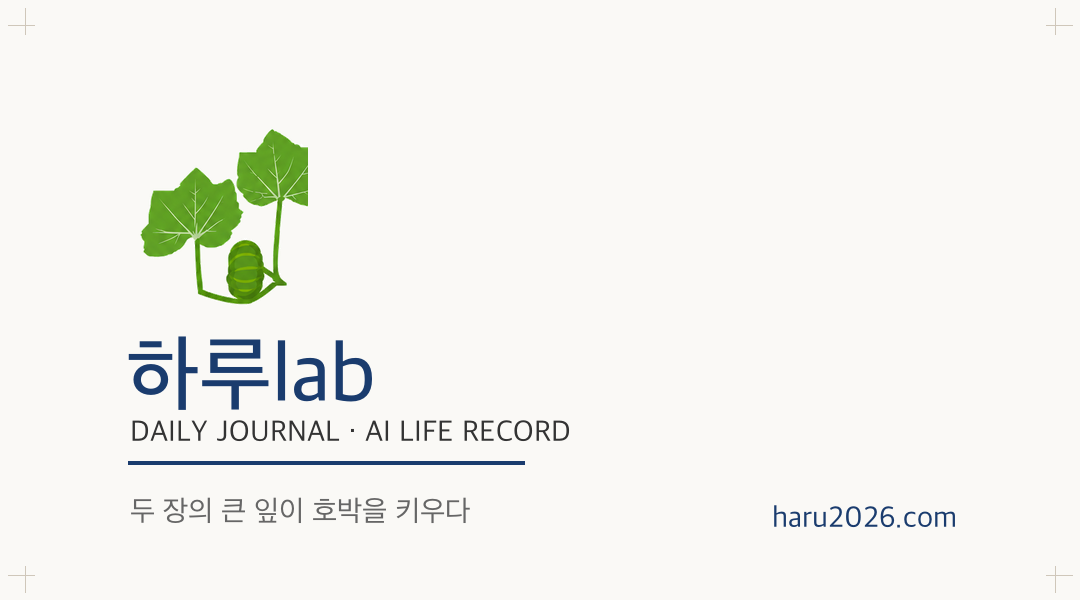
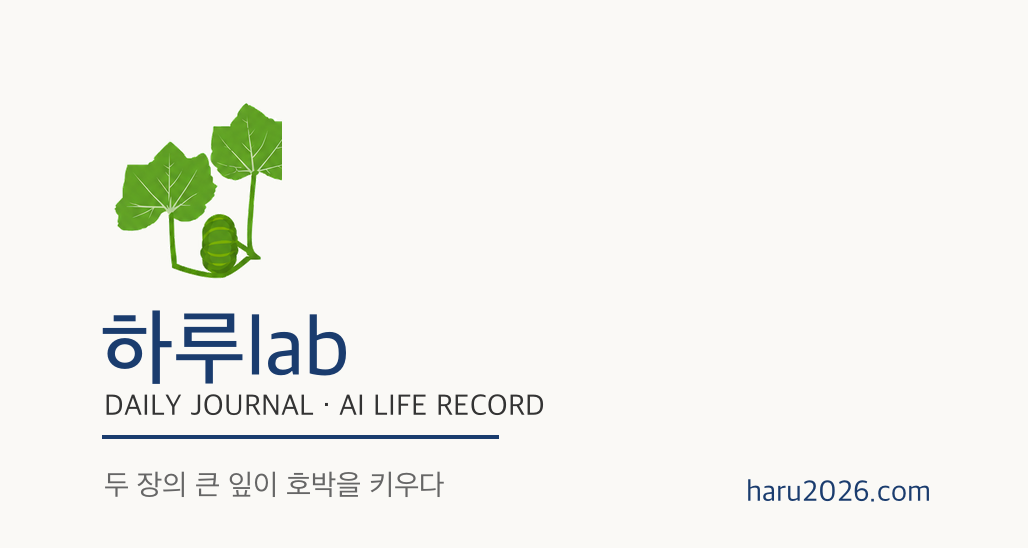
fix: 전자명함 이미지 재단 여백 제거

Changed region(s): [[0.0934, 0.5584, 0.5292, 0.9307], [0.0934, 0.1861, 0.3113, 0.5274], [0.716, 0.8376, 0.9027, 0.9307]]

diff --git a/frontend/public/card/index.html b/frontend/public/card/index.html
@@ -35,7 +35,7 @@
       .card-frame {
         position: relative;
         width: 100%;
-        aspect-ratio: 1080 / 600;
+        aspect-ratio: 1028 / 548;
         filter: drop-shadow(0 14px 28px rgba(26, 60, 110, 0.14));
       }
 
@@ -100,38 +100,38 @@
       }
 
       .front-web {
-        left: 70.7%;
-        top: 80.8%;
-        width: 18.2%;
-        height: 8.3%;
+        left: 72.6%;
+        top: 86.9%;
+        width: 19.1%;
+        height: 9.1%;
       }
 
       .back-phone {
-        left: 18.7%;
-        top: 57.2%;
-        width: 23.5%;
-        height: 7.4%;
+        left: 18.1%;
+        top: 60.0%;
+        width: 24.7%;
+        height: 8.1%;
       }
 
       .back-email {
-        left: 18.7%;
-        top: 64.2%;
-        width: 31.8%;
-        height: 7.4%;
+        left: 18.1%;
+        top: 67.7%;
+        width: 33.4%;
+        height: 8.1%;
       }
 
       .back-web {
-        left: 18.7%;
-        top: 71.2%;
-        width: 29.5%;
-        height: 7.4%;
+        left: 18.1%;
+        top: 75.4%;
+        width: 30.9%;
+        height: 8.1%;
       }
 
       .back-qr {
-        left: 76.2%;
-        top: 53.2%;
-        width: 17.2%;
-        height: 29.8%;
+        left: 78.0%;
+        top: 54.9%;
+        width: 18.1%;
+        height: 32.5%;
       }
 
       @media (max-width: 560px) {
